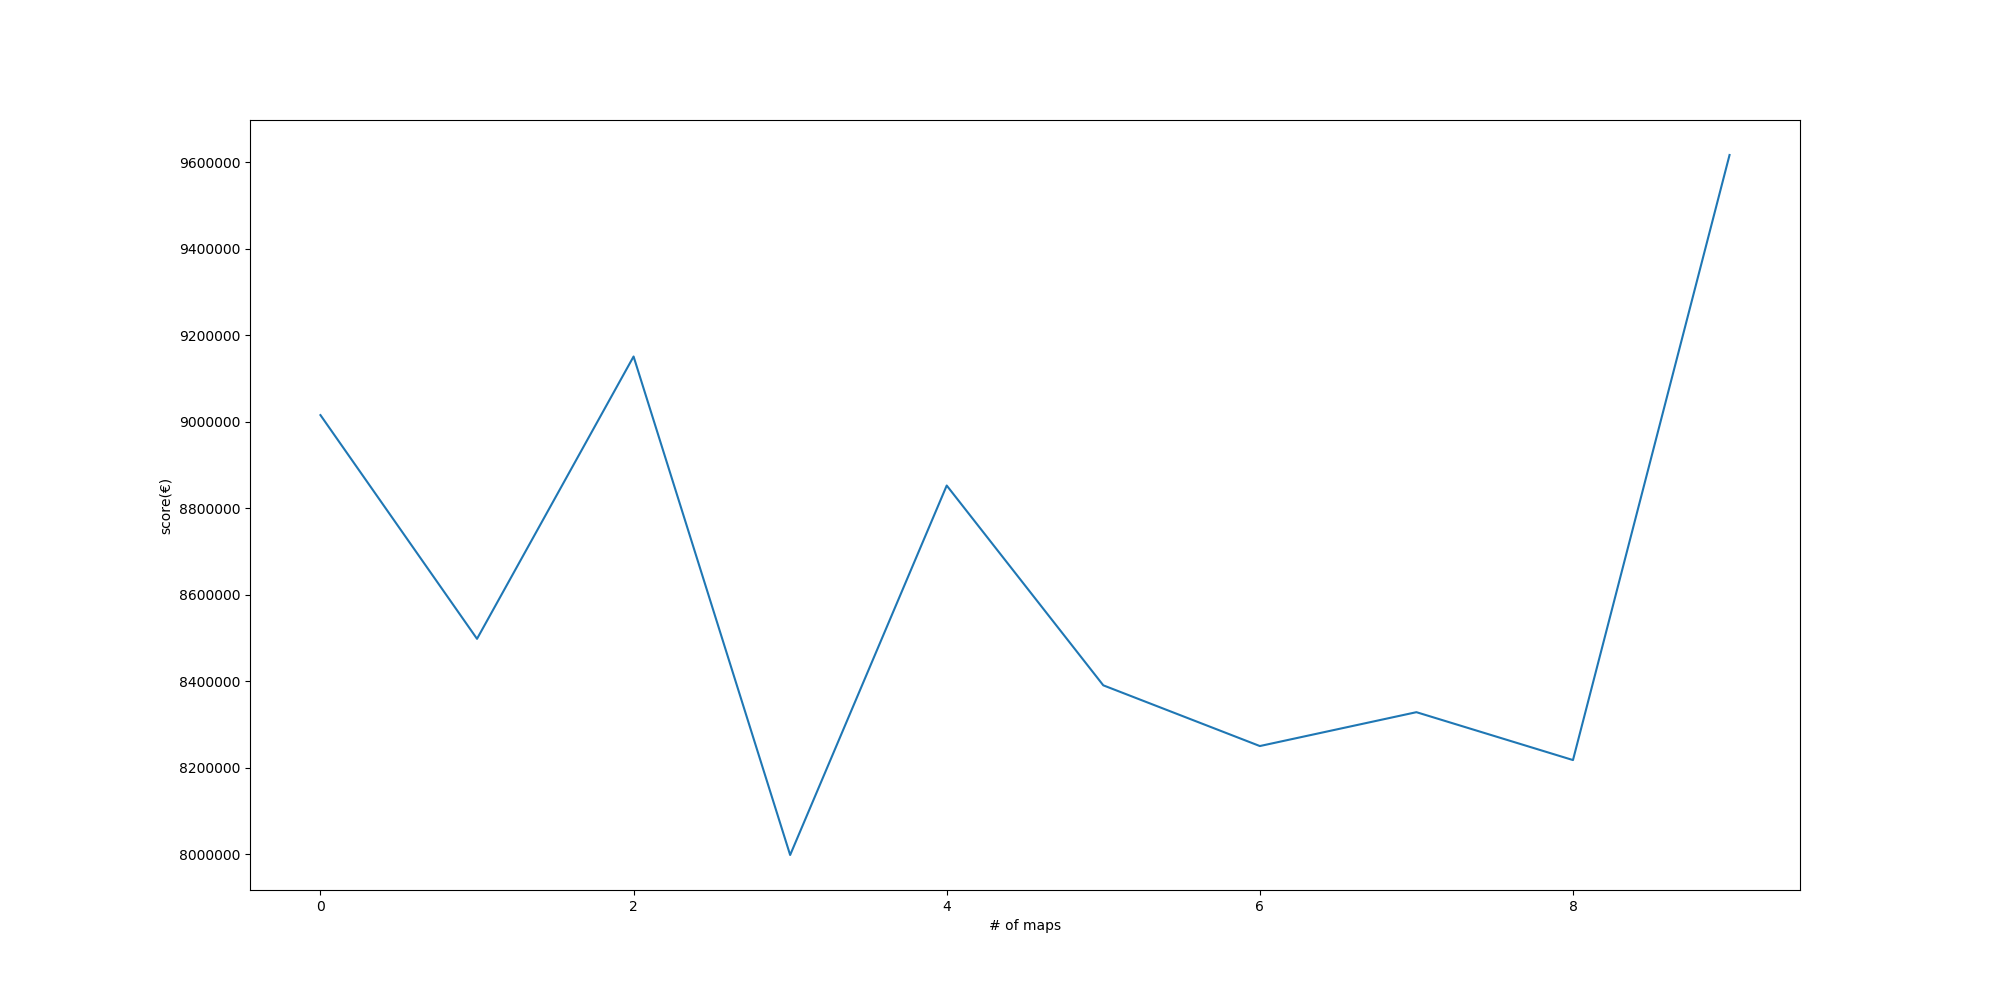
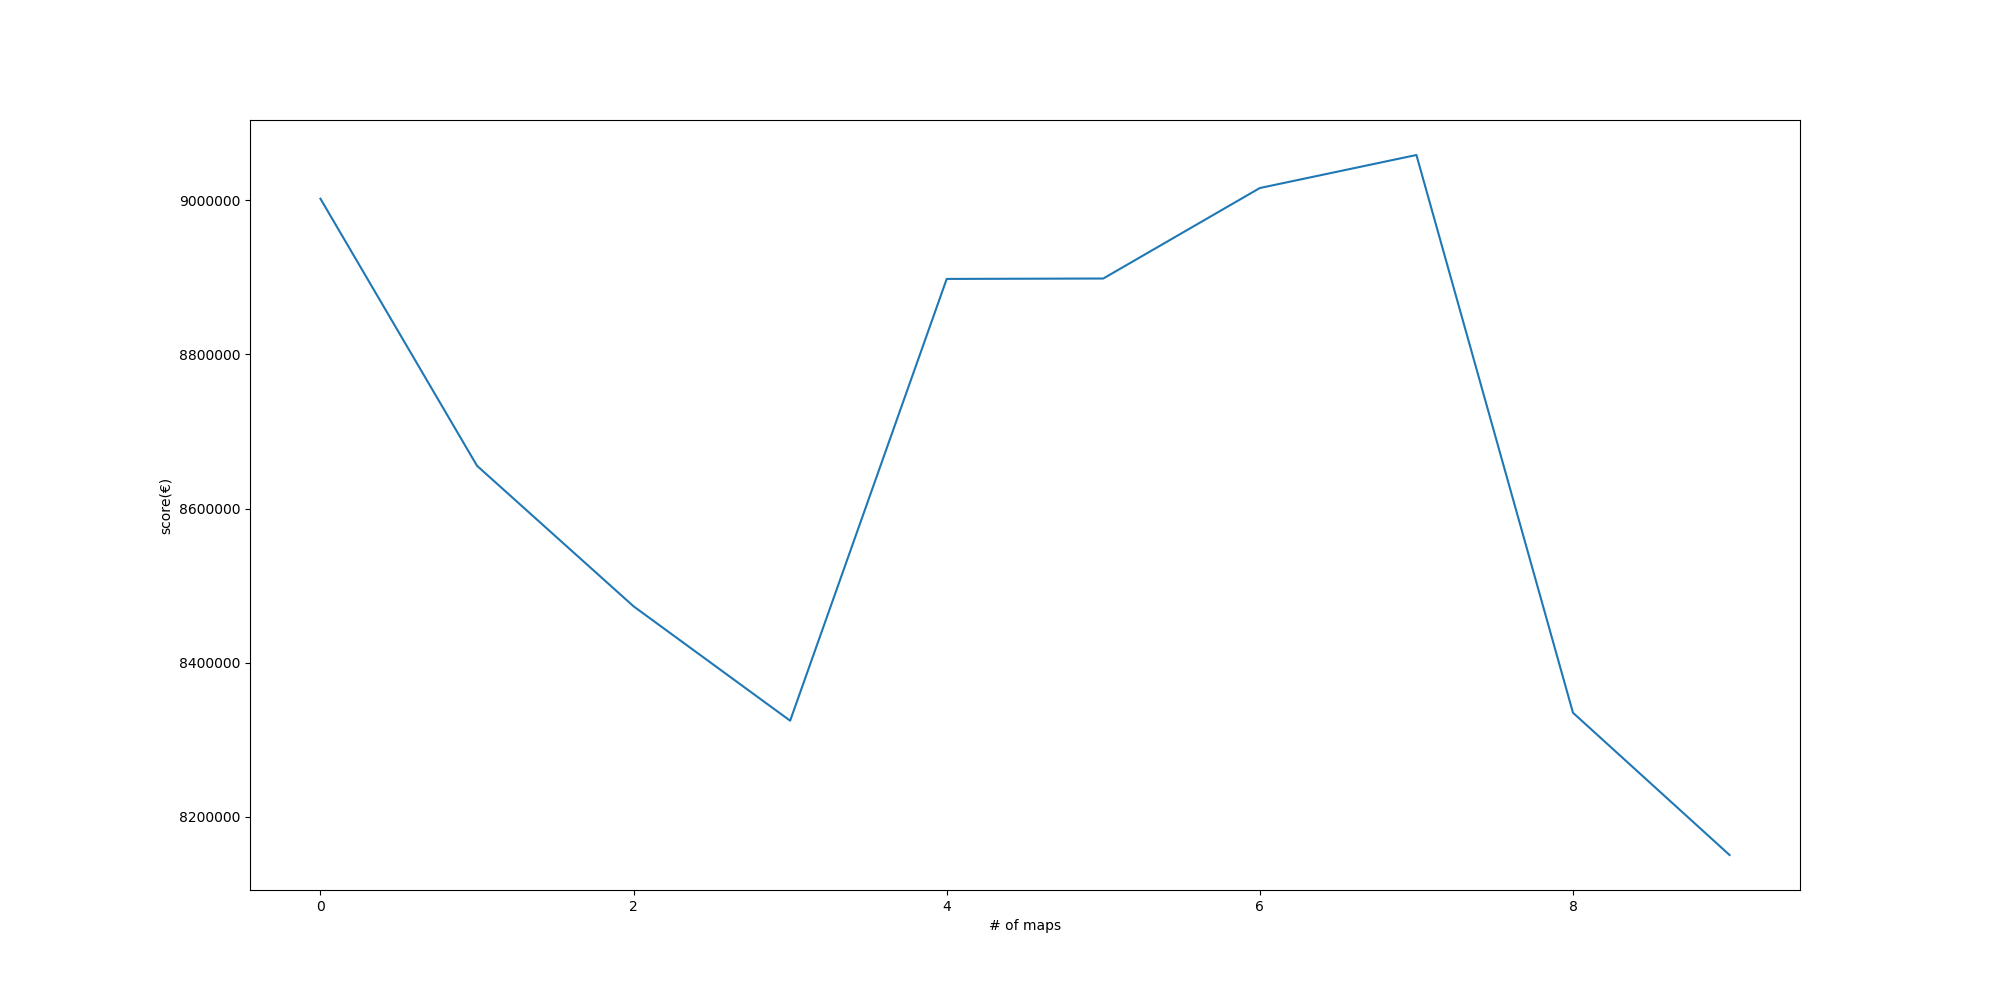
tudu

diff --git a/Algorithms/best_of_random.py b/Algorithms/best_of_random.py
@@ -39,9 +39,10 @@ if __name__ == '__main__':
 
 	from __import__ import MAP_20, coloured_map, save_results, make_gif, plot_data
 
-	best_random_map = best_of_random(MAP_20, 10, True)
+	best_random_map = best_of_random(MAP_20, 10, False)
+	test_random = best_of_random(MAP_20, 10, False)
 
 	# coloured_map(best_random_map['best_map'], 'best_of_random', 'best')
-	plot_data(best_random_map['data'], 'best_of_random', 'plot')
-	# save_results(best_random_map['data'], 'best_of_random', 'data')
+	plot_data([best_random_map['data']], 'best_of_random', 'plot')
+	save_results(best_random_map['data'], 'best_of_random', 'data')
 	# make_gif(best_random_map['steps'], 'best_of_random', 'random')

diff --git a/Visualisations/plot_data.py b/Visualisations/plot_data.py
@@ -20,12 +20,9 @@ def plot_data(data, directory, name):
     '''
     plt.figure(figsize=(20,10))
 
-    if len(data) > 1:
-        for list in data:
-            plt.plot(list)
-    else:
-        plt.plot(data)
-
+    for list in data:
+        plt.plot(list)
+    
     plt.ylabel('score(€)')
     plt.xlabel('# of maps')
 
